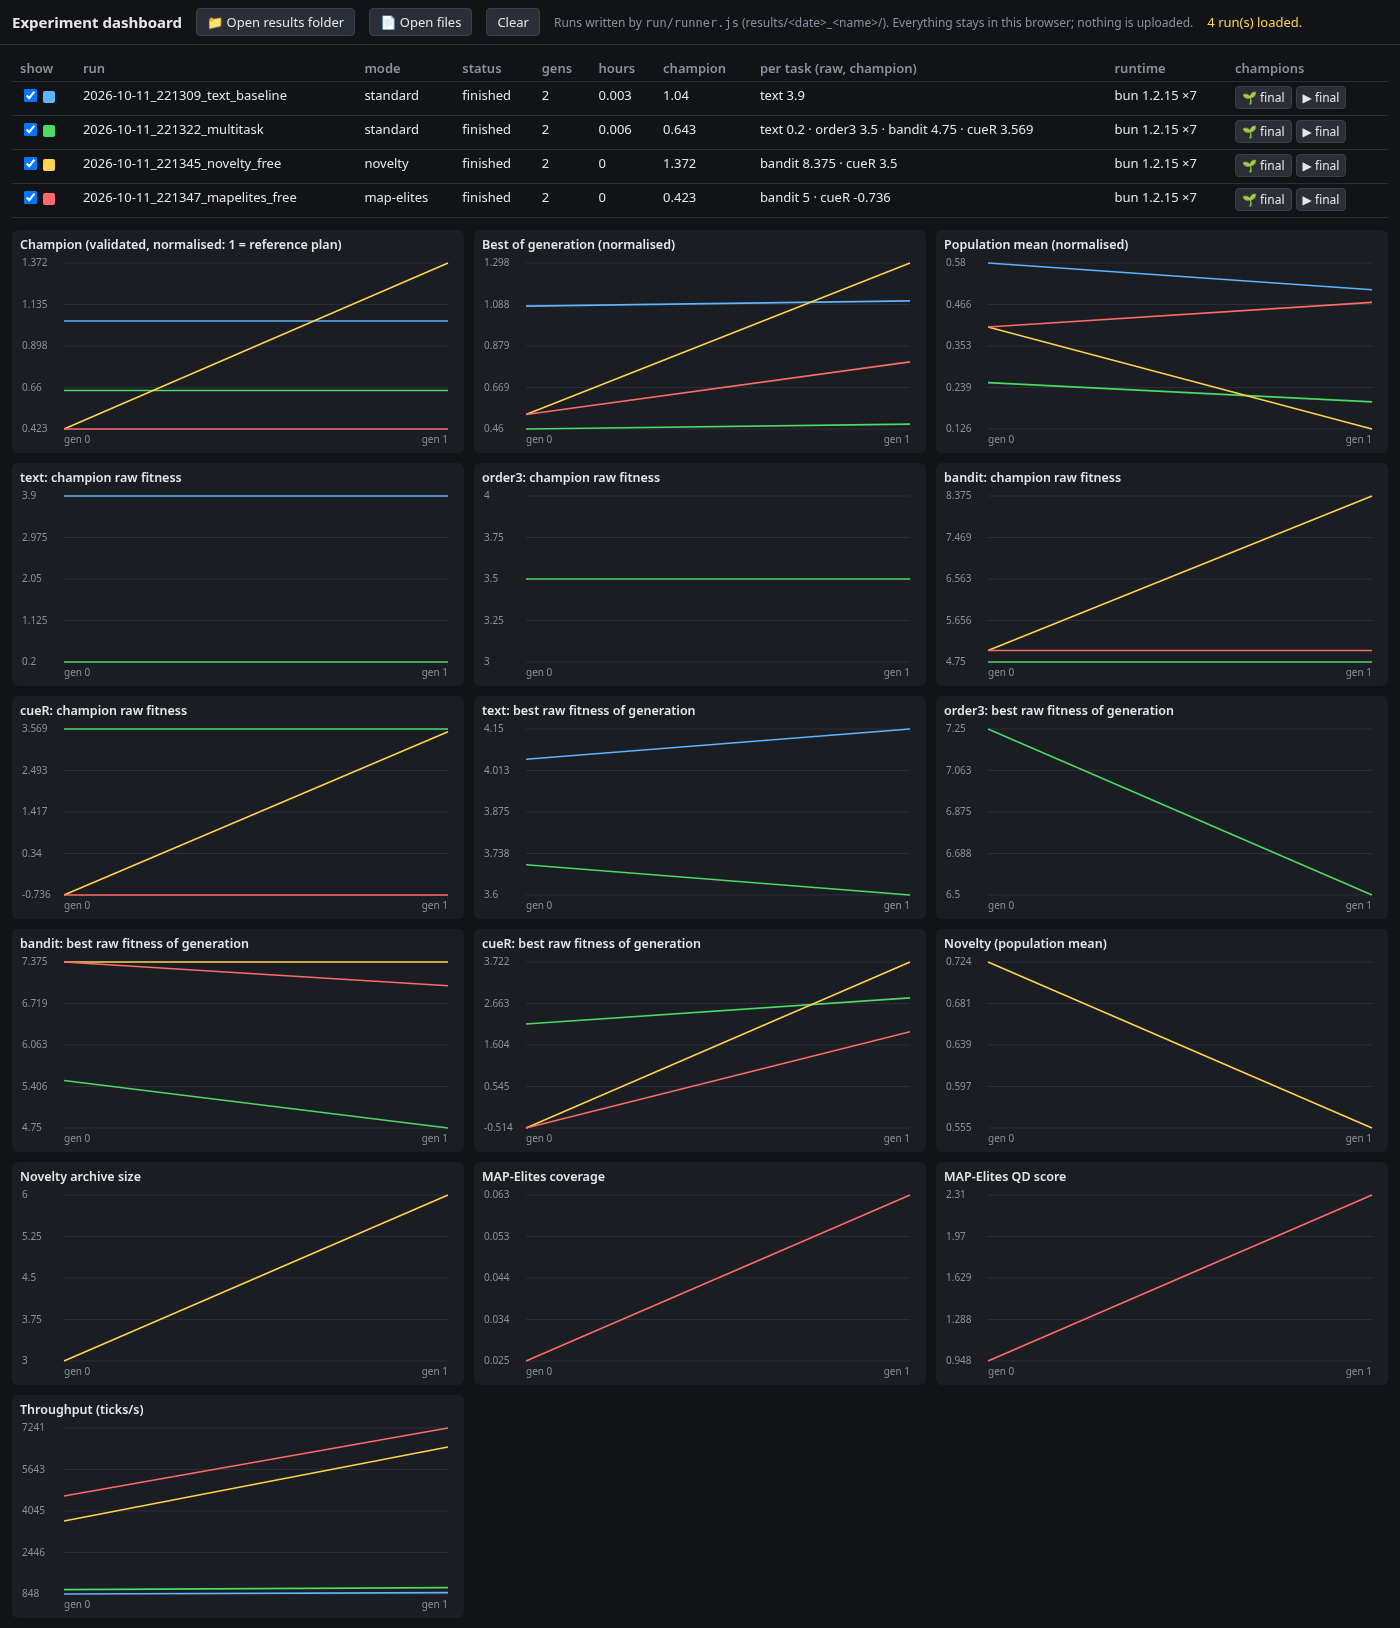
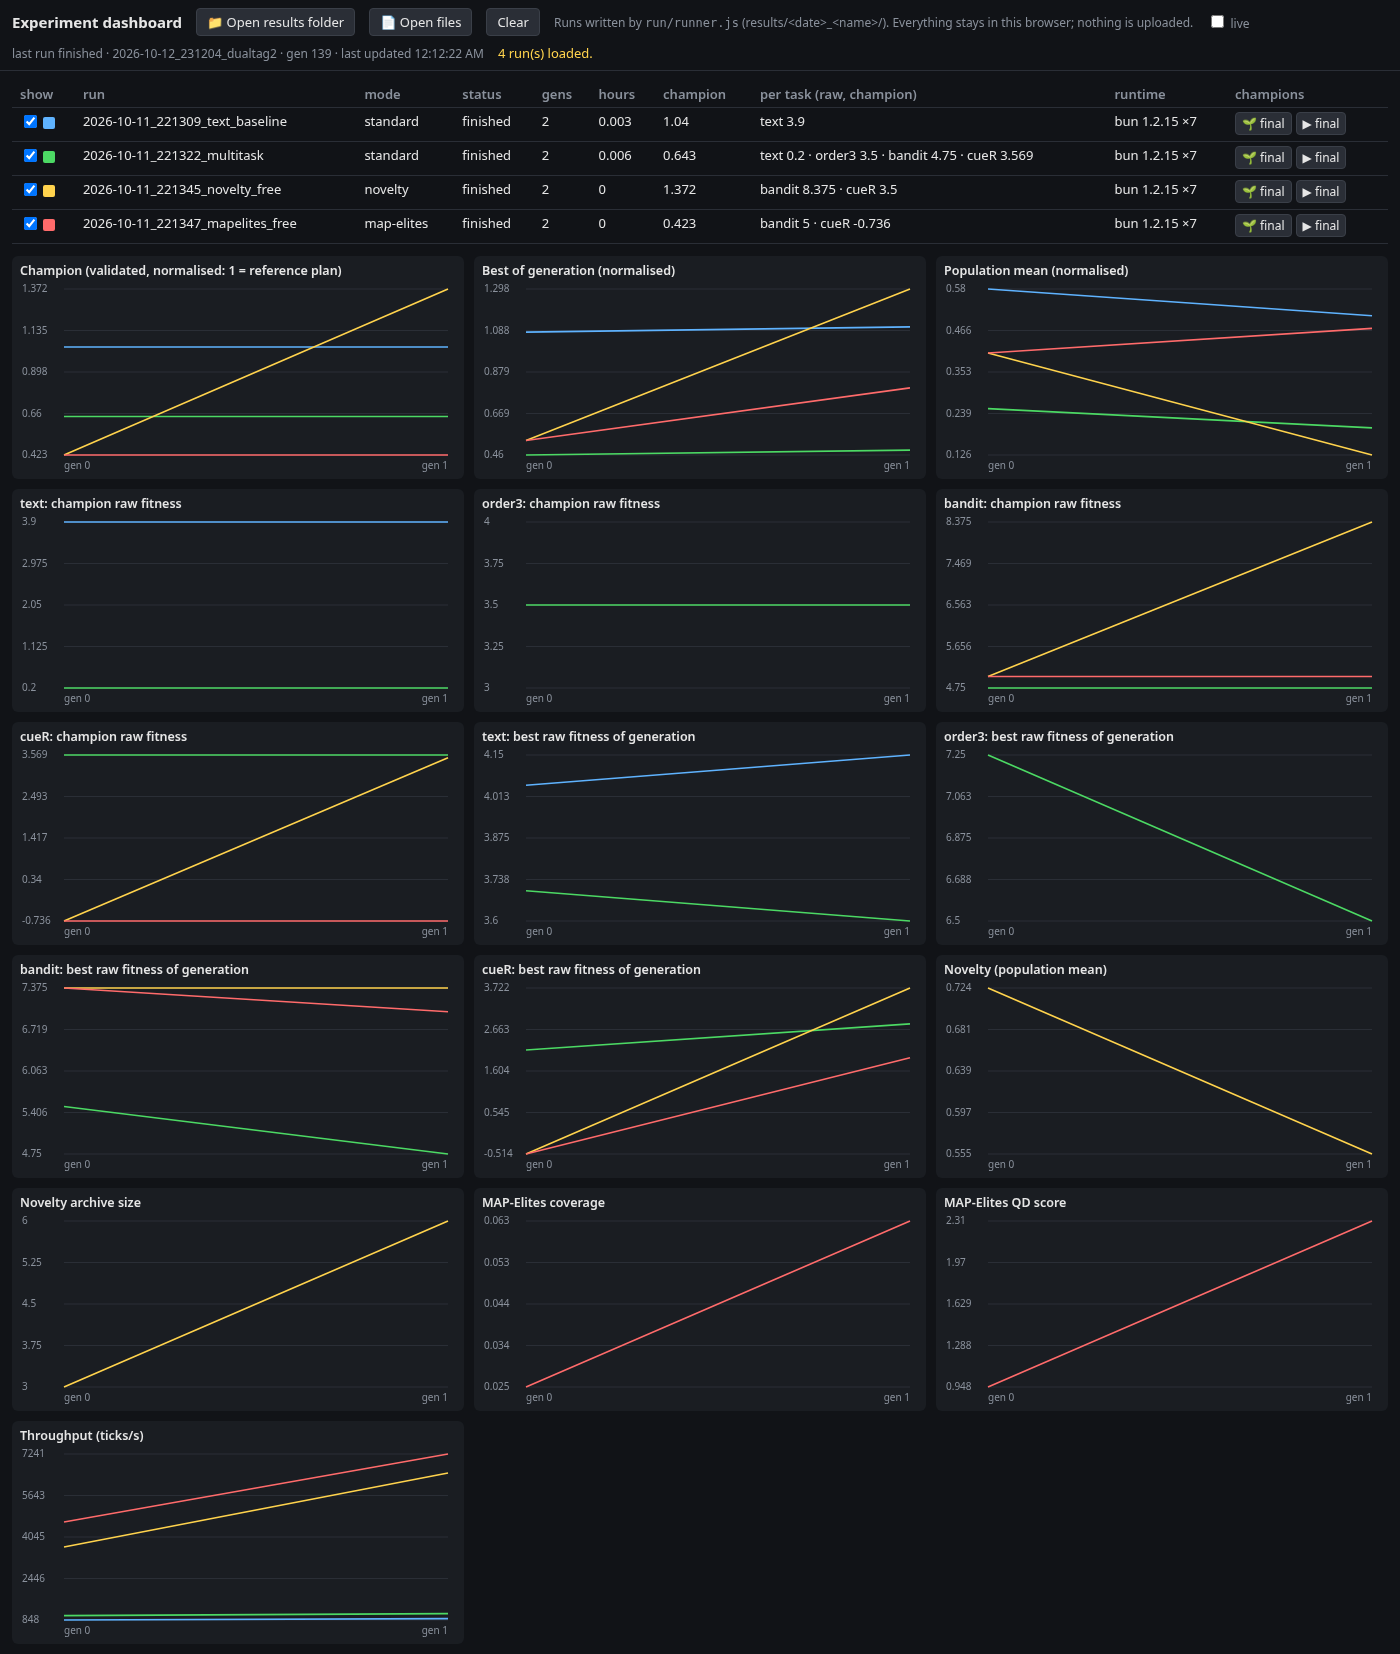
R34 results: dual-timescale eligibility runs (not adopted); viewer_test expects unifiedR

diff --git a/viewer_test.js b/viewer_test.js
@@ -19,7 +19,7 @@ const ready = p => p.waitForFunction(() => window.__viewer && window.__viewer.st
 (async () => {
   const b = await puppeteer.launch({ executablePath: process.env.CHROME || '/usr/bin/google-chrome', headless: 'new', args: ['--no-sandbox'], protocolTimeout: 600000 });
   try {
-    for (const [src, plan] of [['bug', 'v3h'], ['cue', 'memoryK'], ['recall', 'memoryK'], ['seq:text', 'predictK3']]) {
+    for (const [src, plan] of [['bug', 'v3h'], ['cue', 'memoryK'], ['recall', 'memoryK'], ['seq:text', 'unifiedR']]) {
       const { p, errs } = await page(b, 'file://' + path.join(ROOT, 'viewer.html') + '#src=' + src); await ready(p);
       await p.evaluate(() => { document.getElementById('help').style.display = 'none'; });
       const info = await p.evaluate(() => { const v = window.__viewer, m = v.st.model; return { TT: m.TT, T: m.T, cells: m.cells.length, syn: m.syn.n, pops: m.pops.length, N: m.N, plan: SpikingArena.defaultPlanId(SpikingArena.currentEnv()) }; });

diff --git a/RESULTS.md b/RESULTS.md
@@ -1972,3 +1972,15 @@ The champion is within noise everywhere but not better (lower means on bandit / 
 champion. unifiedR grows bit-identical brains to the previous defaults (checked: same scores growth by growth on text, order3,
 bandit, cue), so no score changes; the default is now ONE genome whose area receptor genes read the task's clock / outcome signals.
 Legacy: legacy/v29/ keeps the previous pages and scripts.
+
+## R34 [neuro] (code v30, defaults unchanged): dual-timescale eligibility traces + receiver homeostasis, not adopted
+Each synapse keeps a slow trace (tauElig) and a fast trace (tauElig2); the outcome reads eligMix·fast + (1−eligMix)·slow.
+eligMix / tauElig / tauElig2 / homeostasis evolvable via eligEvo (off by default, bit-identical when off). Box evolution on
+bandit + random cue + seqchoice fixed cycle (refs rewardE 6.55 / 10.48 / 4.00):
+| run | gens | bandit | cue | cycle | fitness |
+|---|---|---|---|---|---|
+| dualtag (1.25 h) | 208 | 7.07 | 11.00 | 5.69 | 1.137 |
+| dualtag2 (1.0 h) | 139 | 6.86 | 11.31 | 6.15 | 1.143 |
+Goal (cycle ≥ 8 with bandit ≥ 6.5, cue ≥ 10) not reached: both timescales together keep bandit/cue intact and raise the cycle
+from 4.0 to ~6.2, but not to the 8.7 the short-trace-only setting reaches (which breaks bandit/cue). dualtag2 champion:
+eligMix 0.24, tauElig 25.2, tauElig2 8, homeoRate 0.22 (results_box/dualtag2_champion.json).
